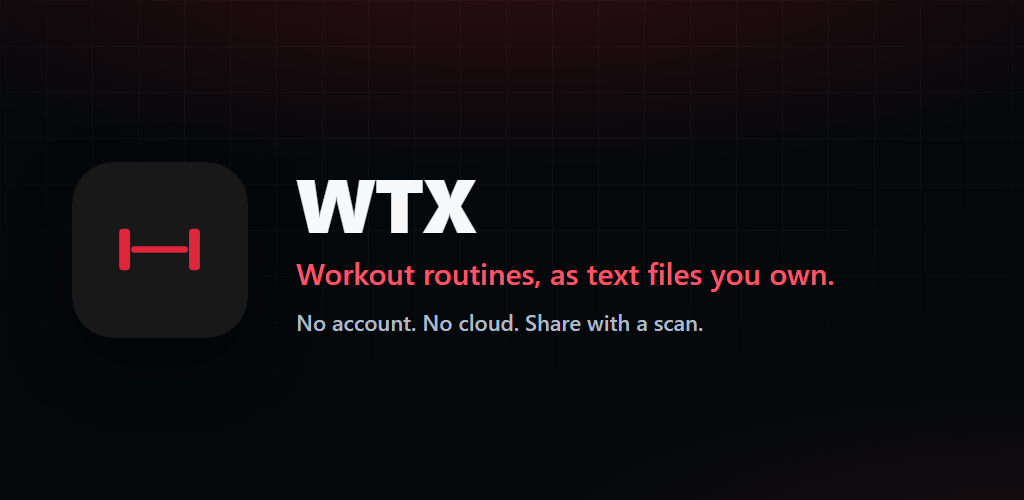
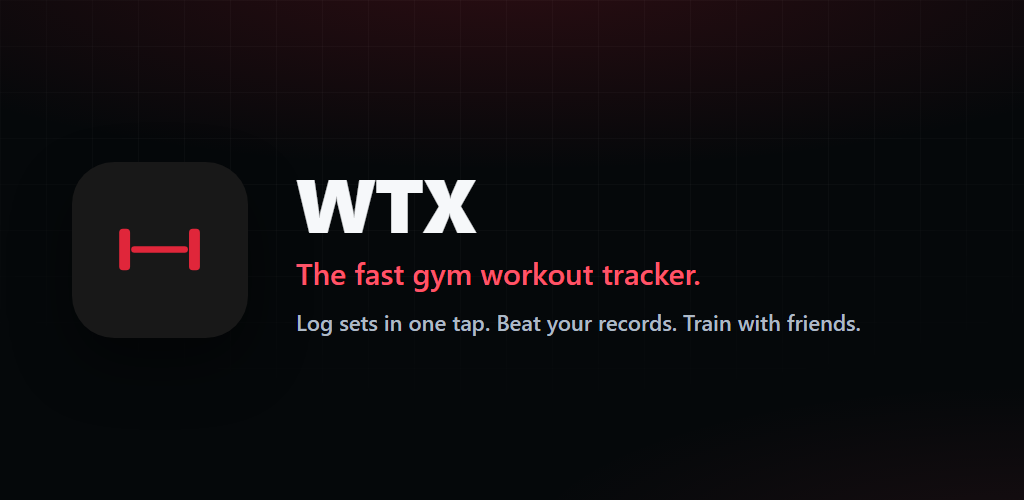
Add a Spanish feature graphic and update the Play listing worksheets
The feature graphic leads with the tracker pitch and has a Spanish version. Category, content rating and data safety answers are filled in for v1.0.0.

Changed region(s): [[0.2812, 0.51, 0.8125, 0.6], [0.2812, 0.63, 0.8438, 0.69]]

diff --git a/listing/visuals/feature-graphic.es.html b/listing/visuals/feature-graphic.es.html
@@ -1,5 +1,5 @@
 <!doctype html>
-<html>
+<html lang="es">
   <head>
     <meta charset="utf-8" />
     <title>WTX Feature Graphic — 1024×500</title>
@@ -91,8 +91,8 @@
         </div>
         <div class="fg-text">
           <div class="fg-word">WTX</div>
-          <div class="fg-tag">The fast gym workout tracker.</div>
-          <div class="fg-sub">Log sets in one tap. Beat your records. Train with friends.</div>
+          <div class="fg-tag">Registra tu gym en segundos.</div>
+          <div class="fg-sub">Series con un toque. Supera tus récords. Entrena con amigos.</div>
         </div>
       </div>
     </div>

diff --git a/listing/play-store/05-data-safety-worksheet.md b/listing/play-store/05-data-safety-worksheet.md
@@ -1,62 +1,64 @@
 # Google Play — Data Safety Section Worksheet
 
-Fill this in Play Console → App content → Data safety. Full reasoning and
-code references are in `research/05-privacy-compliance-notes.md`; this is the
-condensed, fill-in-order version. Items marked **Verify** depend on
-production config.
+Answers for **1.0.0 as it ships**: ads off (`VITE_ADS_ENABLED=false`), no
+crash reporting (no `VITE_SENTRY_DSN`), and no advertising ID permission (the
+release manifest removes it). Full reasoning is in
+`research/05-privacy-compliance-notes.md`; this is the fill-in-order
+version for Play Console → App content → Data safety.
 
-"Shared" in Google's sense = transferred to a third party. Data sent to a
-**service provider** processing it on our behalf (Supabase, Sentry) is *not*
-"shared"; AdMob data *is* shared (Google uses it for its own purposes too).
+Redo this worksheet in the release that turns on ads (adds Device or other
+IDs, Diagnostics and possibly Approximate location, all **shared** with
+Google) or sets a Sentry DSN (adds Crash logs and Diagnostics).
 
-## 1. Does your app collect or share any of the required user data types?
+"Shared" in Google's sense means transferred to a third party. Supabase
+processes data on our behalf as a service provider, so nothing below is
+"shared".
 
-**Yes.**
+## Step 1: Data collection and security
 
-## 2. Is all of the user data collected by your app encrypted in transit?
+| Question | Answer |
+|---|---|
+| Does your app collect or share any of the required user data types? | **Yes** |
+| Is all of the user data collected by your app encrypted in transit? | **Yes** (HTTPS to Supabase) |
+| Which of the following methods of account creation does your app support? | **Username and password** (email and password, Supabase Auth). Accounts are optional. |
+| Delete account URL | `https://wtxworkout.com/delete-account.html` |
+| Do you provide a way for users to request that some or all of their data is deleted, without requiring them to delete their account? | **Yes**. Workouts and routines can be deleted one by one in the app. |
 
-**Yes** (HTTPS to Supabase, Sentry and Google).
+## Step 2: Data types
 
-## 3. Do you provide a way for users to request that their data is deleted?
+Tick only these. For each one: **Collected: yes. Shared: no. Processed
+ephemerally: no.**
 
-**Yes** — in-app: Configuration → Account → Delete account; outside the app:
-email the contact address (see the Privacy Policy). Play also asks for a
-**Delete account URL**: use `https://<site>/privacy.html` (section "Your
-choices: export and deletion") or a dedicated page — **Verify** it's
-accepted.
+| Category → Type | Required or optional | Purposes | What it is |
+|---|---|---|---|
+| Personal info → **Email address** | Optional | App functionality, Account management | Sign-in email (only with an account) |
+| Personal info → **Name** | Optional | App functionality, Account management | Display name on the profile |
+| Personal info → **User IDs** | Optional | App functionality, Account management, Analytics | Account ID; attached to usage events when signed in |
+| Personal info → **Other info** | Optional | App functionality | Profile bio |
+| Health and fitness → **Fitness info** | Optional | App functionality | Routines and workouts synced to the account (exercises, sets, weights, reps, notes) |
+| App activity → **App interactions** | **Required** | Analytics | Usage events: event name, platform, app version, and where the install came from (a link's source label). Sent with or without an account. |
+| App activity → **Other user-generated content** | Optional | App functionality | Workouts shared to followers, group workout activity, reports filed |
 
-## 4. Data types
+## Not collected (leave unticked)
 
-| Category → type | Collected | Shared | Optional? | Purposes | Source |
-|---|---|---|---|---|---|
-| Personal info → Email address | Yes | No | Optional (only with an account) | Account management, App functionality | Supabase Auth |
-| Personal info → Name | Yes (display name) | No | Optional | App functionality, Account management | `profiles` |
-| Personal info → User IDs | Yes | No | Optional | Account management, Analytics | Supabase user id |
-| Personal info → Other info | Yes (bio) | No | Optional | App functionality | `profiles.bio` |
-| Health and fitness → Fitness info | Yes — workouts (exercises, sets, weights, reps, notes) synced with an account | No | Optional | App functionality | `sessions`, `routines` |
-| Messages → Other in-app messages | No (no chat/DMs/comments) | — | — | — | — |
-| App activity → App interactions | Yes | No | Required (sent without an account too) | Analytics | `app_events` |
-| App activity → Other user-generated content | Yes (shared workouts, reports once moderation lands) | No | Optional | App functionality | `sessions.shared`, `content_reports` |
-| App info and performance → Crash logs | Yes (when Sentry DSN set) | No | Required | Analytics (app stability) | Sentry |
-| App info and performance → Diagnostics | Yes | No (Sentry) / Yes (AdMob) | Required | Analytics, Advertising | Sentry, AdMob |
-| Device or other IDs | Yes (advertising ID, app set ID) | **Yes** (Google) | Required | Advertising or marketing, Fraud prevention/security, Analytics | AdMob |
-| Location → Approximate location | **Verify** (AdMob derives it from IP) | **Verify** | Required | Advertising | AdMob |
-| Financial info → Purchase history | **No** — purchase flow hidden until it ships | — | — | — | — |
+- **Location** (approximate or precise)
+- **Financial info**: no purchases in 1.0.0
+- **Messages**: no chat, DMs or comments; group workout cheers are fixed
+  emoji reactions
+- **Photos and videos, Audio, Files and docs**: the camera and picked images
+  are only used to read QR codes on the phone, and exports stay on the phone
+  unless the user shares them
+- **Calendar, Contacts, Web browsing, Health info**
+- **App info and performance** (crash logs, diagnostics): no Sentry DSN in
+  1.0.0
+- **Device or other IDs**: no advertising ID, and usage events carry no
+  device identifier
 
-Photos/videos, contacts, calendar, files, audio, precise location, web
-browsing: **No** (the camera is used only to decode QR codes on-device).
+## Other App content answers this affects
 
-## 5. Also in Play Console → App content
-
-- [ ] **Ads:** "Yes, my app contains ads."
-- [ ] **Privacy policy:** `https://<site>/privacy.html`.
-- [ ] **Account deletion:** as in section 3.
-- [ ] **Target audience:** 16+ (matches the Terms; avoids the Families
-      policy). Don't select under-13 age groups.
-- [ ] **Data safety** answers above, re-checked against the AdMob console
-      (personalized vs non-personalized, location) — **Verify**.
-- [ ] `app-ads.txt` served at the developer website root
-      (`public/app-ads.txt.example`).
-- [ ] Re-run this worksheet if an IAP/remove-ads flow ships (adds "Purchase
-      history") or moderation stores new data types.
-- [ ] Cross-check with `app-store/06-app-privacy-worksheet.md`.
+- **Ads:** "No, my app does not contain ads."
+- **Advertising ID:** "No". The release manifest removes `AD_ID` (see
+  `android/app/src/main/AndroidManifest.xml`); restore it when ads ship.
+- **Privacy policy:** `https://wtxworkout.com/privacy.html`
+- Cross-check with `app-store/06-app-privacy-worksheet.md` before the iOS
+  submission.

diff --git a/listing/play-store/04-category-tags-content-rating.md b/listing/play-store/04-category-tags-content-rating.md
@@ -1,48 +1,53 @@
 # Google Play — Category, Tags & Content Rating
 
-## Category
+Answers for **1.0.0 as it ships: ads off, accounts optional, social on.**
+Re-check every "Ads" line in the release that sets `VITE_ADS_ENABLED=true`.
 
-**Primary: Health & Fitness.** This is the closest fit and where the
-competitive set (FitNotes, Hevy, Strong) lives — matters for "similar apps"
-discovery surfaces, not just search.
+## Category (Store settings → App category)
 
-Play Console also lets you add up to 5 descriptive **tags** on top of the
-category. Reasonable picks given the current feature set (routines, workout
-logging, social feed, group workouts): Workout Planner, Workout Tracker /
-Gym Log, Strength Training, Fitness Social / Training Partners — pick the
-closest options from the live dropdown at submission time; the taxonomy
-changes and isn't published as a fixed list.
+- **App or game:** App
+- **Category: Health & Fitness.** Where the competitive set (Hevy, Strong,
+  FitNotes) lives, which matters for "similar apps" surfaces, not just search.
+- **Tags (up to 5):** pick the closest from the live list, e.g. Workout
+  tracker, Gym, Strength training, Workout planner, Fitness. The taxonomy
+  changes and isn't published as a fixed list.
 
-## Content rating (IARC questionnaire)
+## Content rating (App content → Content ratings → IARC questionnaire)
 
-WTX now has social features, so answer these honestly:
+- **Category:** All other app types
+- **Email for IARC:** `jcrucesdeveloper@gmail.com`
 
-| IARC question | Answer | Notes |
+| Question | Answer | Why |
 |---|---|---|
-| Violence, sexuality, language, controlled substances, gambling, crude humor | No | None in the app's own content |
-| Can users interact or exchange content with each other? | **Yes** | Following, shared workouts visible to followers (incl. free-text notes and bios), kudos, live group workouts |
-| Does the app share the user's current physical location with others? | No | |
-| Can users purchase digital goods? | No | "Remove ads" is hidden until it ships |
-| Does the app contain ads? | Yes | AdMob (declared separately under App content → Ads) |
-| Unrestricted internet / web browser | No | |
+| Violence, blood, sexuality, nudity, language, drugs, alcohol, tobacco, gambling, crude humour, horror | **No** to all | None in the app's own content |
+| Can users interact or exchange content with each other? | **Yes** | Followers feed with shared workouts (free-text names and notes), bios, kudos, live group workouts with cheers |
+| Does the app share the user's current physical location with other users? | **No** | |
+| Does the app allow users to purchase digital goods? | **No** | No in-app purchases in 1.0.0 |
+| Does the app contain ads? | **No** | 1.0.0 ships with ads off |
+| Is the app a web browser or search engine? | **No** | |
+| Does the app contain any of the restricted content listed (gambling, etc.)? | **No** | |
 
-Expected outcome: a low age rating (Everyone / PEGI 3 or so) with the
-**"Users Interact"** interactive element shown on the listing — IARC rates
-the content, and user interaction is a descriptor, not a higher tier. Let the
-questionnaire decide; this is a sanity check.
+Expected outcome: Everyone / PEGI 3 or close, with the **"Users Interact"**
+element on the listing. Interaction is a descriptor, not a higher tier. Let
+the questionnaire decide; this is a sanity check.
 
 ## Target audience (App content → Target audience and content)
 
-**16 and over** (matches the Terms: accounts 16+, not directed at under-13s).
-Selecting any under-13 group pulls WTX into the Families policy (certified
-ad SDKs only, no personalized ads, more review). Answer "No" to "Could your
-app unintentionally appeal to children?" only if the store listing,
-screenshots and icon are clearly aimed at adults.
+- **Age groups:** **16–17** and **18 and over** only. This matches the Terms
+  and the sign-up check ("I'm 16 or older"). Selecting any under-13 group
+  pulls WTX into the Families policy.
+- **Could your store listing unintentionally appeal to children?** **No.**
+  The icon, screenshots and copy are about gym training.
 
-## UGC moderation (Play's User Generated Content policy)
+## User-generated content (Play's UGC policy)
 
-Play requires, for apps with UGC: terms that prohibit objectionable content
-(done — `legal.terms`), in-app reporting of content and users, blocking, and
-acting on reports in a timely way. These land with the moderation work
-(report/block, content filter, reports reviewed within 24 hours) — confirm
-they're in the build you submit.
+Play expects, for apps with UGC: terms that ban objectionable content, in-app
+reporting of content and users, blocking, and acting on reports in a timely
+way. All are in 1.0.0:
+
+- Terms prohibit objectionable content (`legal.terms`).
+- Report a post or an account: the ⋯ menu on a profile or a shared workout.
+- Block and unblock: the same menus; a Blocked accounts list under your
+  profile.
+- A word filter on names, bios and shared workouts.
+- Reports are reviewed within 24 hours (README → Moderation).

diff --git a/listing/play-store/06-graphics-checklist.md b/listing/play-store/06-graphics-checklist.md
@@ -2,8 +2,12 @@
 
 Specs: `research/04-asset-specs.md`. Shot list/content plan: `assets/checklist.md`.
 
-- [ ] App icon — 512×512px, 32-bit PNG w/ alpha, <1024 KB
-- [ ] Feature graphic — 1024×500px, JPEG/24-bit PNG, no alpha
+- [x] App icon — 512×512px, 32-bit PNG, <1024 KB. `visuals/png/icon-512.png`
+      (one icon for every language).
+- [x] Feature graphic — 1024×500px, JPEG/24-bit PNG, no alpha.
+      `visuals/png/feature-graphic.png` (English) and
+      `visuals/png/feature-graphic-es.png` (es-419 and es-ES), from
+      `visuals/feature-graphic.html` / `feature-graphic.es.html`.
 - [x] Phone screenshots — 1080×1920px, min 2 / max 8, JPEG/24-bit PNG no alpha.
       `visuals/png/play-store/en/` for English, `visuals/png/play-store/es/`
       for es-419 and es-ES; 6 shots each.
